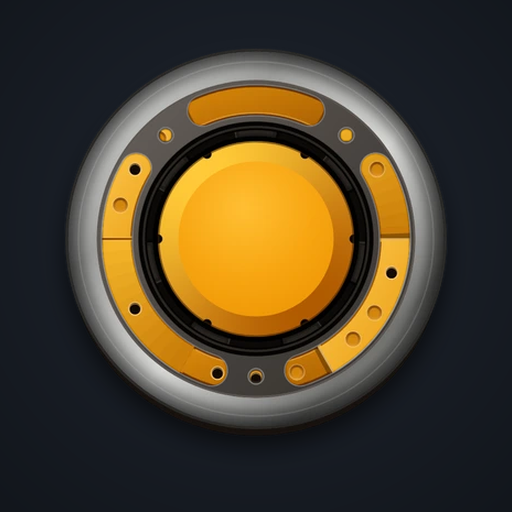
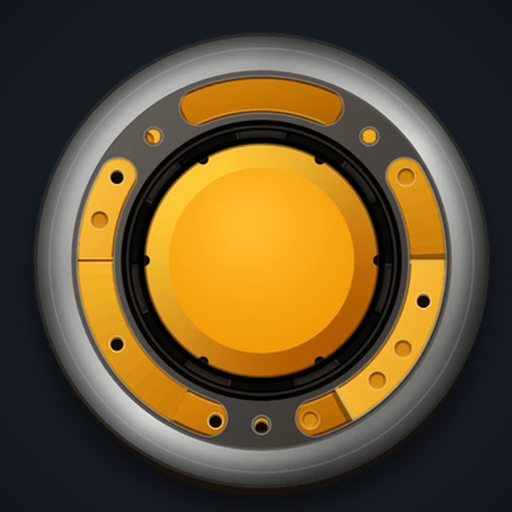
도로싱크 앱 아이콘: 버튼 크게, 가운데 정렬
Claude-Session: https://claude.ai/code/session_01DURwo2uBEwukpQLRAcFitq

diff --git a/index.html b/index.html
@@ -9,8 +9,8 @@
 <meta property="og:type" content="website">
 <meta property="og:url" content="https://levelinfinikke.github.io/DOROSYNC/">
 <link rel="icon" type="image/png" href="assets/img/calcbtn128.png?v=3">
-<link rel="apple-touch-icon" href="assets/img/app-180.png?v=2">
-<link rel="manifest" href="manifest.webmanifest?v=2">
+<link rel="apple-touch-icon" href="assets/img/app-180.png?v=3">
+<link rel="manifest" href="manifest.webmanifest?v=3">
 <meta name="apple-mobile-web-app-title" content="도로싱크">
 <meta name="application-name" content="도로싱크">
 <meta name="mobile-web-app-capable" content="yes">
